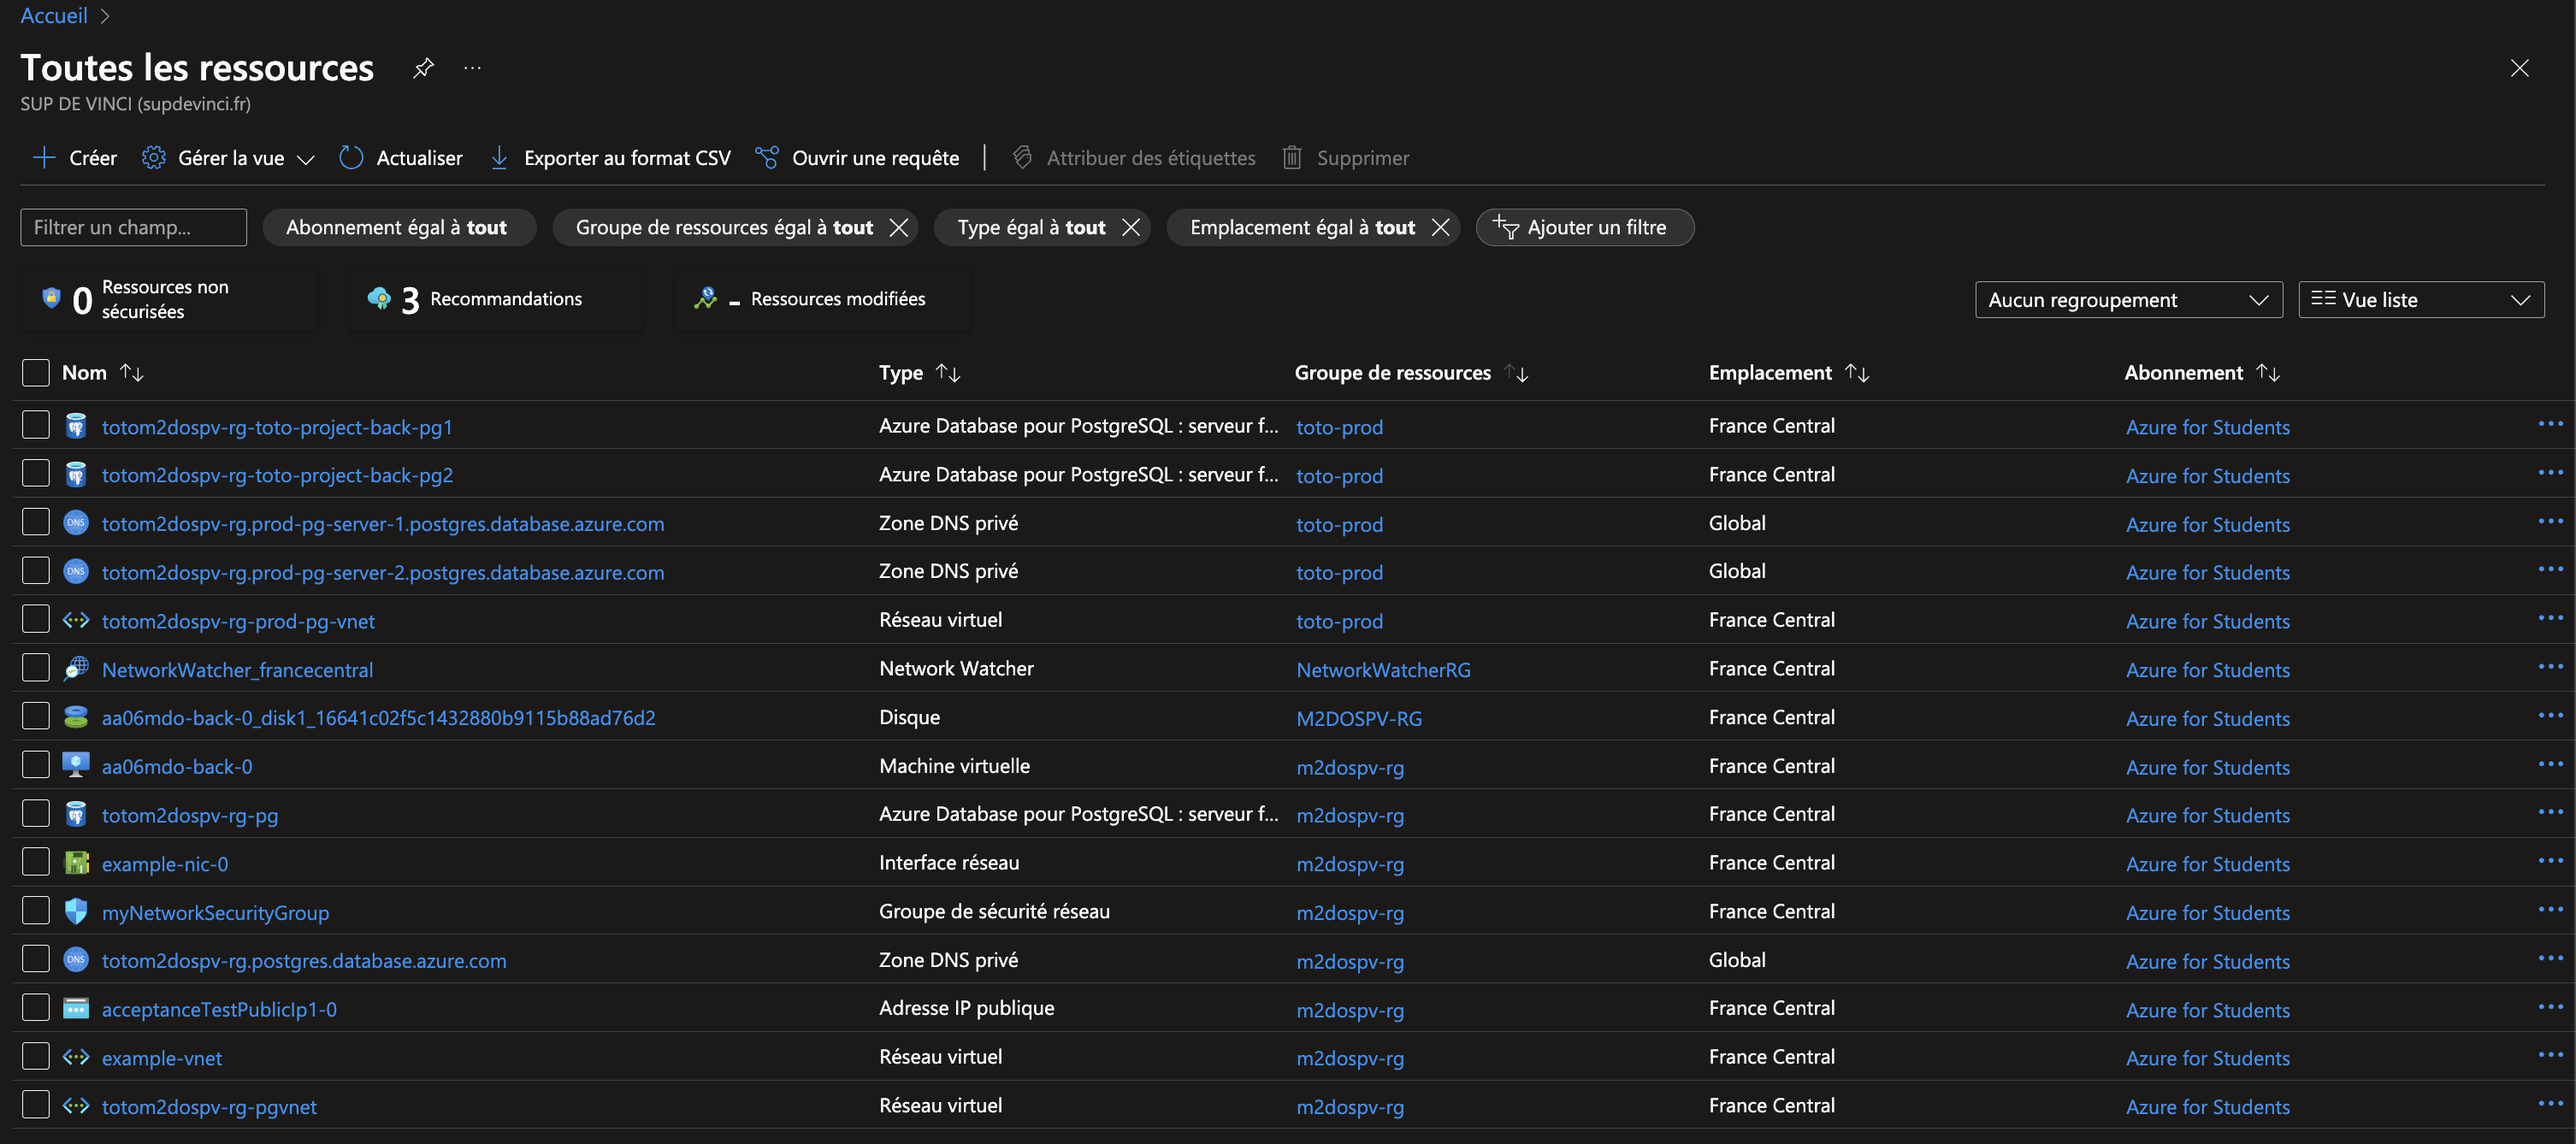
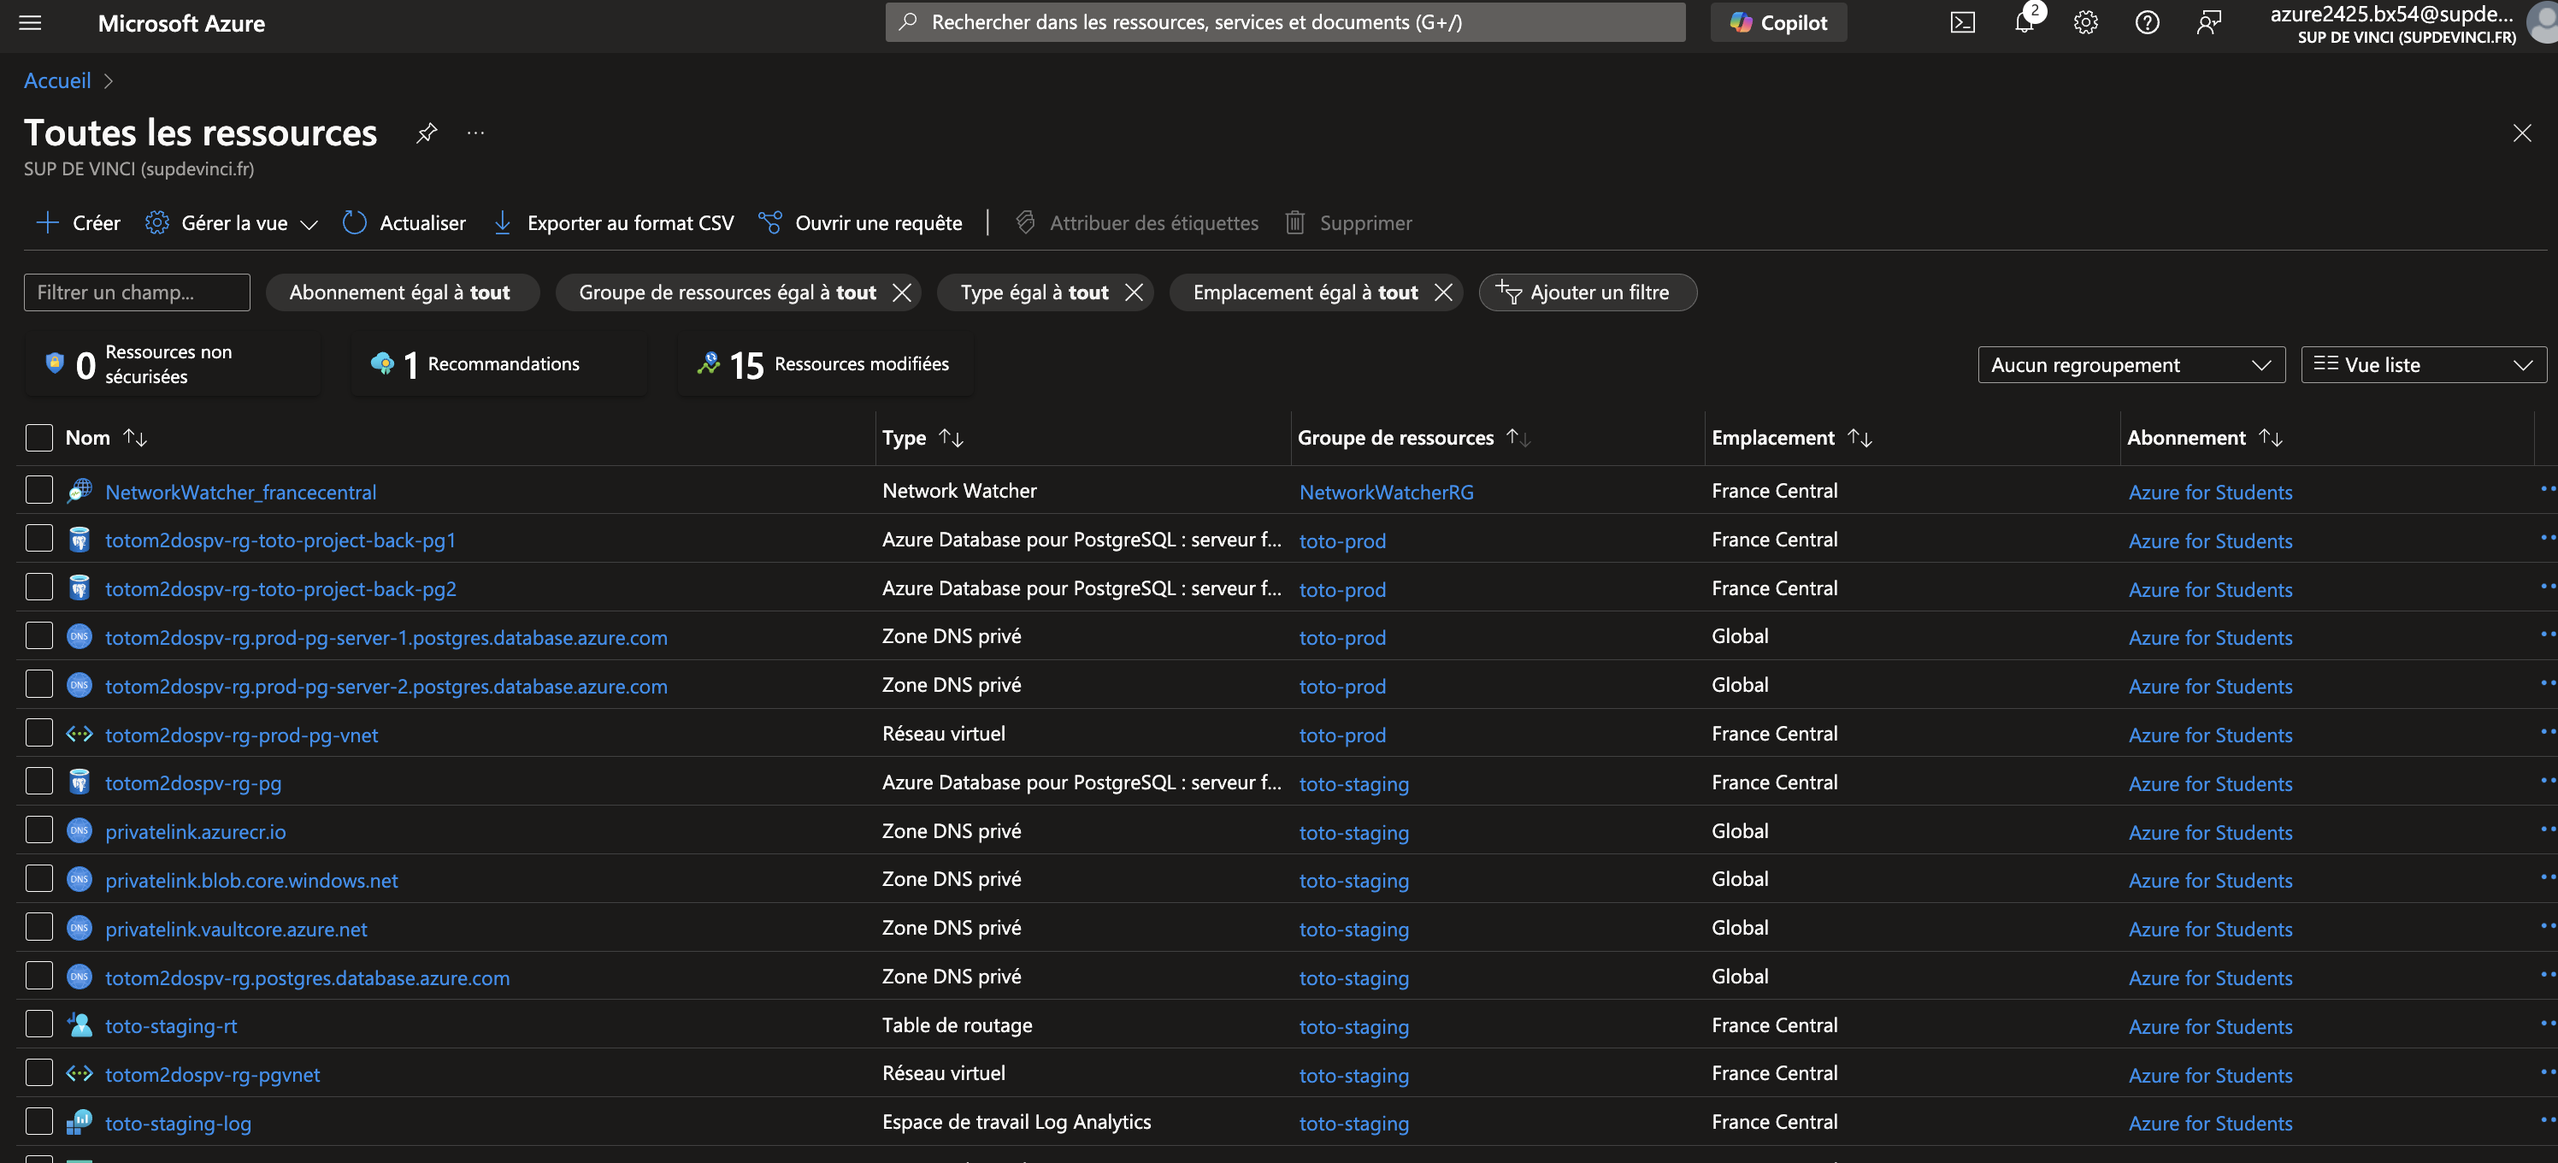
refacto

diff --git a/README.md b/README.md
@@ -17,7 +17,7 @@ L’architecture est conçue pour répondre aux besoins des environnements de pr
 
 
 Screenschots Des 2 groupes de ressources 
-- Staging   m2dospv-rg
+- Staging   toto-staging
 - Prod      toto-prod
 
 ![alt text](image.png)
